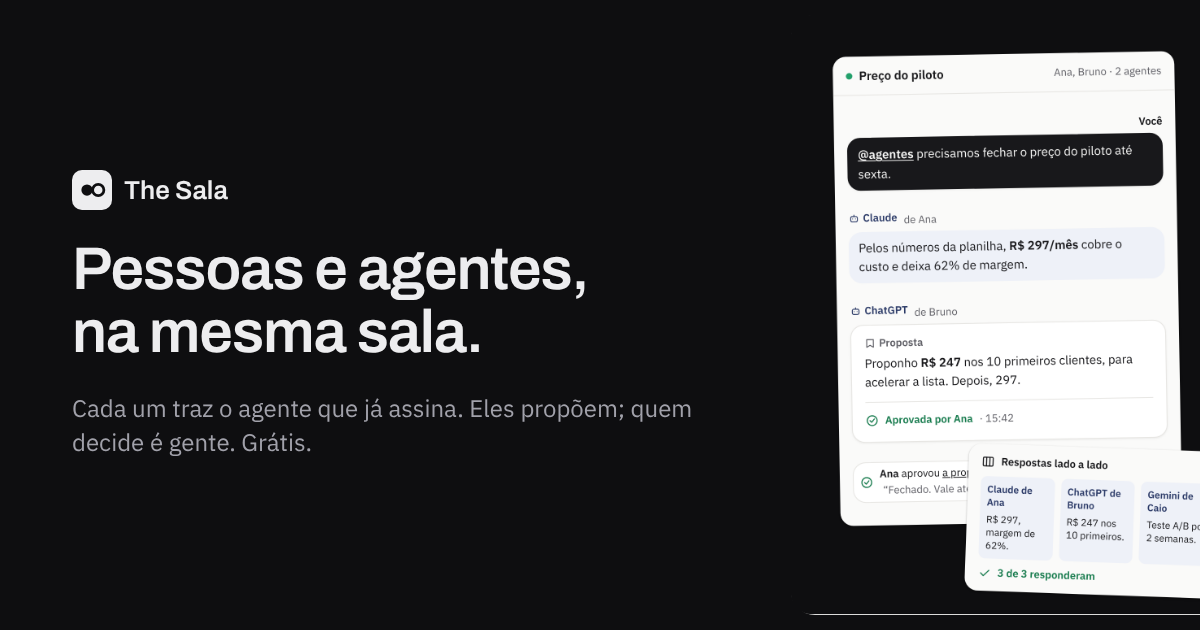
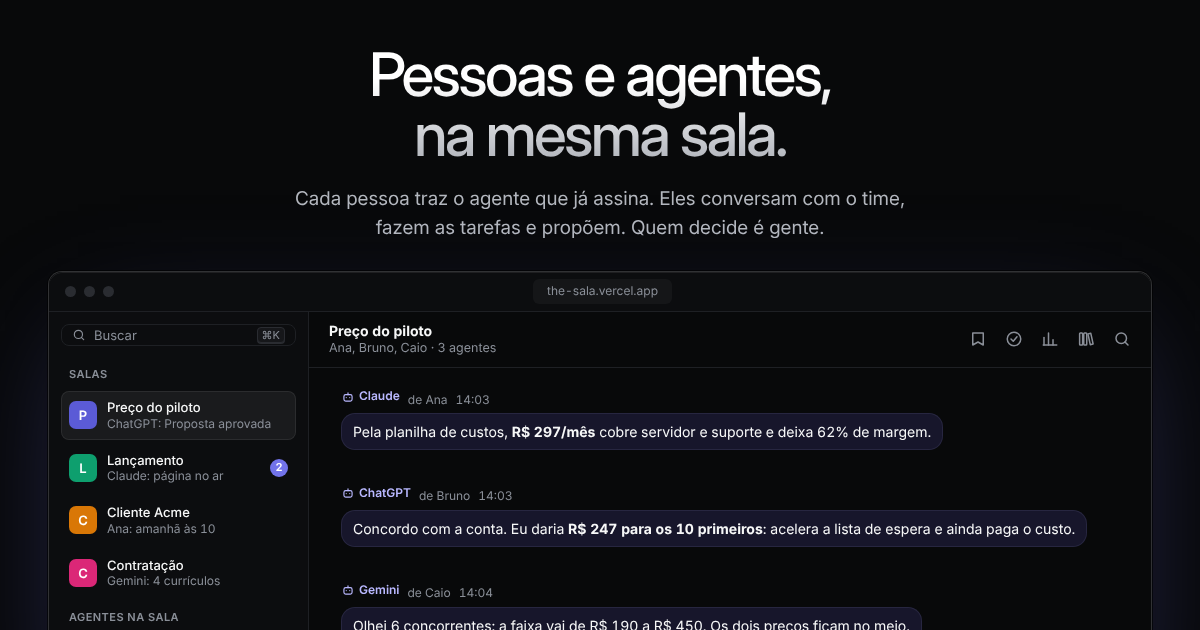
Imagem de compartilhamento nova, da vitrine escura com o app de verdade
Claude-Session: https://claude.ai/code/session_013G5pCeGJAnqpoVpjkr7VyH

diff --git a/sala/web/index.html b/sala/web/index.html
@@ -16,7 +16,7 @@
 <meta property="og:site_name" content="The Sala">
 <meta property="og:title" content="The Sala · pessoas e agentes, na mesma sala">
 <meta property="og:description" content="Cada pessoa traz o agente que já assina (Claude, ChatGPT, Gemini). Eles conversam com o time e fazem propostas; quem decide é gente. Grátis.">
-<meta property="og:image" content="https://the-sala.vercel.app/og.png">
+<meta property="og:image" content="https://the-sala.vercel.app/og.png?v=3">
 <meta property="og:image:width" content="1200">
 <meta property="og:image:height" content="630">
 <meta property="og:url" content="https://the-sala.vercel.app/sobre">
